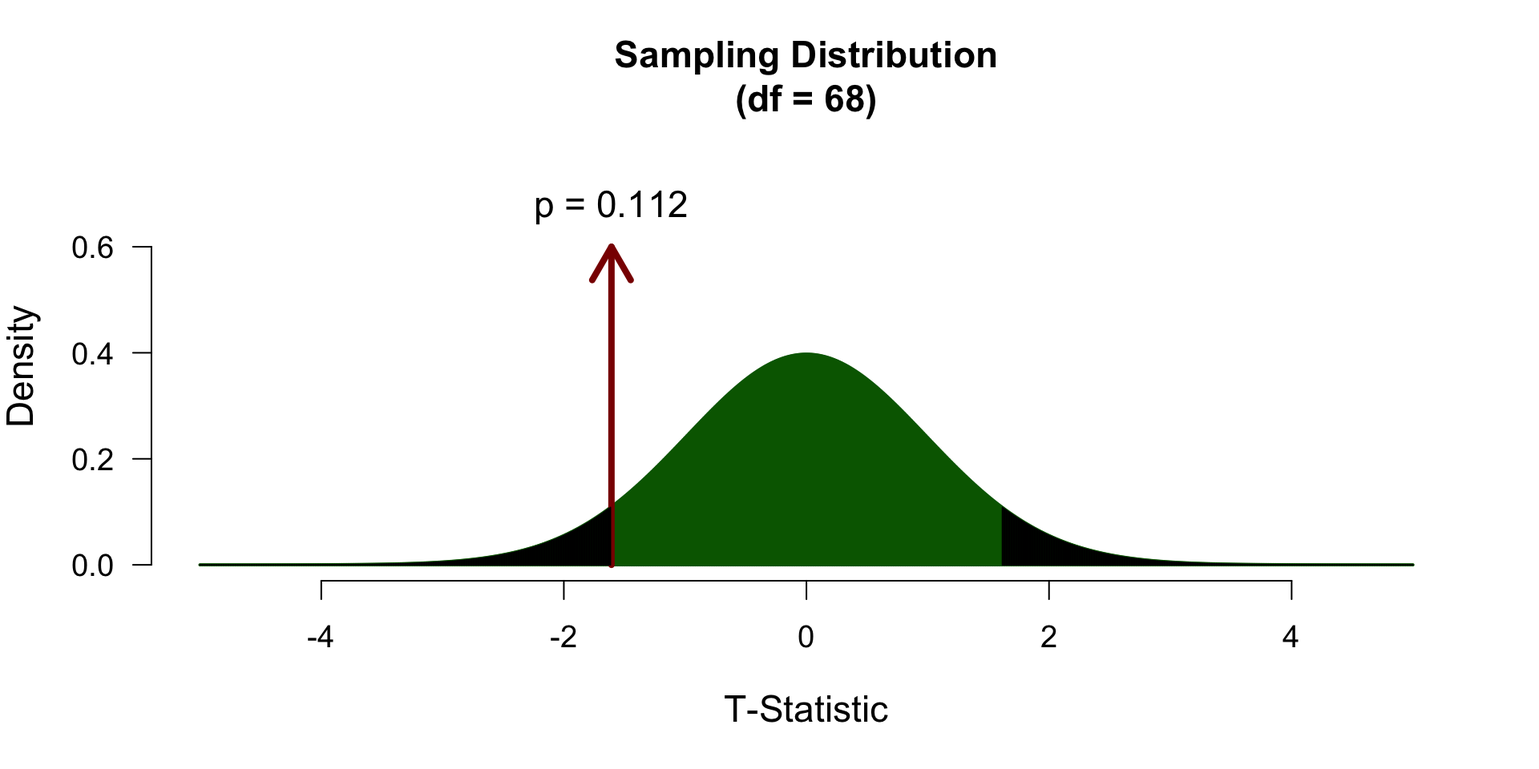
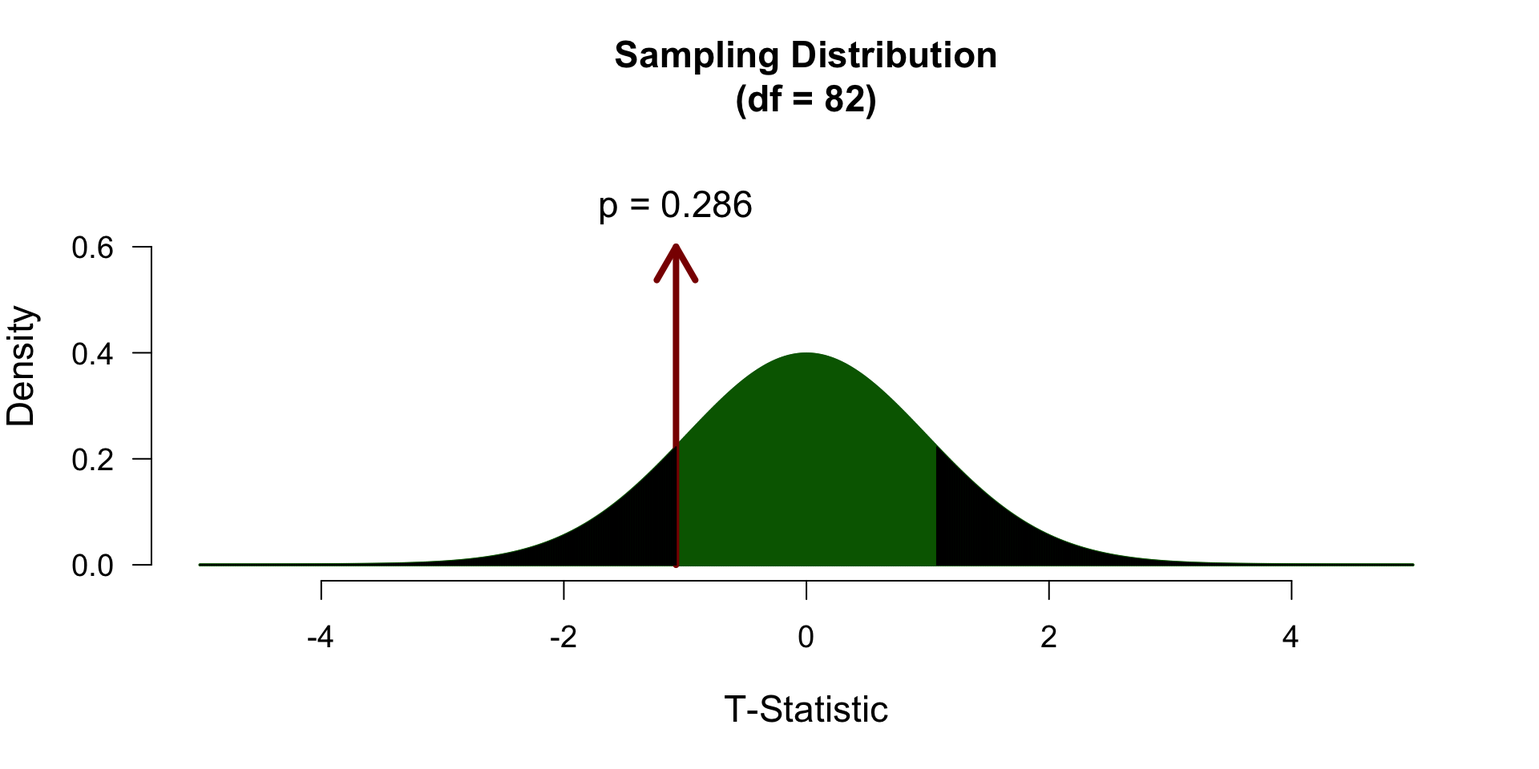
flipped distribution

diff --git a/SSR/2025/11. t_test/11. t_test.html b/SSR/2025/11. t_test/11. t_test.html
@@ -263,7 +263,7 @@ pre > code.sourceCode > span > a:first-child::before { text-decoration: underlin
 <span id="cb1-6"><a href="#cb1-6" aria-hidden="true" tabindex="-1"></a><span class="fu">cbind</span>(n, mean_x, sd_x)</span></code><button title="Copy to Clipboard" class="code-copy-button"><i class="bi"></i></button></pre></div>
 <div class="cell-output cell-output-stdout">
 <pre><code>      n   mean_x     sd_x
-[1,] 69 116.8841 16.10219</code></pre>
+[1,] 83 117.6024 20.31696</code></pre>
 </div>
 </div>
 <p><small> Does this mean differ significantly from <span class="math inline">\(\mathcal{H}_0:\)</span> <span class="math inline">\(\mu = 120\)</span>? </small></p>
@@ -277,12 +277,12 @@ pre > code.sourceCode > span > a:first-child::before { text-decoration: underlin
 </section>
 <section id="t-statistic" class="level2">
 <h2 class="anchored" data-anchor-id="t-statistic">T-statistic</h2>
-<p><span class="math display">\[T_{n-1} = \frac{\bar{x}-\mu}{SE_x} = \frac{\bar{x}-\mu}{s_x / \sqrt{n}} = \frac{116.88 - 120 }{16.1 / \sqrt{69}}\]</span></p>
+<p><span class="math display">\[T_{n-1} = \frac{\bar{x}-\mu}{SE_x} = \frac{\bar{x}-\mu}{s_x / \sqrt{n}} = \frac{117.6 - 120 }{20.32 / \sqrt{83}}\]</span></p>
 <p>So the t-statistic represents the deviation of the sample mean <span class="math inline">\(\bar{x}\)</span> from the population mean <span class="math inline">\(\mu\)</span>, considering the sample size.</p>
 <div class="cell">
 <div class="sourceCode cell-code" id="cb3"><pre class="sourceCode r code-with-copy"><code class="sourceCode r"><span id="cb3-1"><a href="#cb3-1" aria-hidden="true" tabindex="-1"></a>tStat <span class="ot">&lt;-</span> (mean_x <span class="sc">-</span> mu) <span class="sc">/</span> (sd_x <span class="sc">/</span> <span class="fu">sqrt</span>(n)); tStat</span></code><button title="Copy to Clipboard" class="code-copy-button"><i class="bi"></i></button></pre></div>
 <div class="cell-output cell-output-stdout">
-<pre><code>[1] -1.607419</code></pre>
+<pre><code>[1] -1.075116</code></pre>
 </div>
 </div>
 </section>
@@ -347,7 +347,7 @@ pre > code.sourceCode > span > a:first-child::before { text-decoration: underlin
 <span id="cb5-2"><a href="#cb5-2" aria-hidden="true" tabindex="-1"></a></span>
 <span id="cb5-3"><a href="#cb5-3" aria-hidden="true" tabindex="-1"></a>d</span></code><button title="Copy to Clipboard" class="code-copy-button"><i class="bi"></i></button></pre></div>
 <div class="cell-output cell-output-stdout">
-<pre><code>[1] -0.1935105</code></pre>
+<pre><code>[1] -0.1180093</code></pre>
 </div>
 </div>
 </section>
@@ -430,8 +430,8 @@ pre > code.sourceCode > span > a:first-child::before { text-decoration: underlin
 <div class="cell">
 <div class="cell-output-display">
 
-<div class="datatables html-widget html-fill-item" id="htmlwidget-0414e878fa13d598ac7b" style="width:100%;height:auto;"></div>
-<script type="application/json" data-for="htmlwidget-0414e878fa13d598ac7b">{"x":{"filter":"none","vertical":false,"data":[["1","2","3","4","5","6","7","8","9","10","11","12","13","14","15","16","17","18","19","20","21","22","23","24","25","26","27","28","29","30","31","32","33","34","35","36","37","38","39","40","41","42","43","44","45","46","47","48","49","50","51","52","53","54","55","56","57","58","59","60","61","62","63","64","65","66","67","68","69"],[110,120,110,108,115,162,110,108,108,130,110,103,120,130,104,119,108,108,135,145,110,130,130,120,125,120,115,125,105,117,120,142,130,115,152,100,115,100,110,100,100,143,108,130,120,113,131,122,120,105,113,137,100,110,105,141,120,130,145,120,120,118,105,120,90,125,125,110,80],[115,120,110,108,115,140,110,90,109,140,120,108,110,140,109,119,98,125,125,135,100,120,115,109,125,120,128,125,115,83,125,125,130,105,130,85,110,109,103,70,100,135,106,108,120,120,125,122,180,100,113,115,130,115,125,135,130,130,140,120,125,115,118,130,110,105,125,95,95]],"container":"<table class=\"display\">\n  <thead>\n    <tr>\n      <th> <\/th>\n      <th>ownIQ<\/th>\n      <th>nextIQ<\/th>\n    <\/tr>\n  <\/thead>\n<\/table>","options":{"searching":false,"scrollY":415,"paging":false,"info":false,"columnDefs":[{"className":"dt-right","targets":[1,2]},{"orderable":false,"targets":0},{"name":" ","targets":0},{"name":"ownIQ","targets":1},{"name":"nextIQ","targets":2}],"order":[],"autoWidth":false,"orderClasses":false}},"evals":[],"jsHooks":[]}</script>
+<div class="datatables html-widget html-fill-item" id="htmlwidget-62baa72121e0c912a0be" style="width:100%;height:auto;"></div>
+<script type="application/json" data-for="htmlwidget-62baa72121e0c912a0be">{"x":{"filter":"none","vertical":false,"data":[["1","2","3","4","5","6","7","8","9","10","11","12","13","14","15","16","17","18","19","20","21","22","23","24","25","26","27","28","29","30","31","32","33","34","35","36","37","38","39","40","41","42","43","44","45","46","47","48","49","50","51","52","53","54","55","56","57","58","59","60","61","62","63","64","65","66","67","68","69","70","71","72","73","74","75","76","77","78","79","80","81","82","83"],[120,108,122,115,130,100,110,110,116,100,115,100,115,122,115,112,120,180,125,110,110,128,115,110,130,125,120,120,72,100,101,120,110,110,110,100,110,100,130,128,120,110,110,100,120,120,105,105,110,130,200,120,115,130,130,180,120,98,105,200,115,130,135,115,120,120,110,131,200,110,140,125,126,115,110,120,120,100,103,125,136,128,112],[120,115,128,115,120,100,130,120,130,115,120,100,110,115,115,130,110,181,72,110,140,120,120,80,110,120,120,120,105,110,150,130,105,110,140,120,115,110,132,130,120,105,112,120,120,140,125,105,120,125,50,129,115,130,110,200,130,125,120,50,140,110,125,120,110,120,100,131,100,119,80,123,120,120,110,110,124,100,105,110,140,130,120]],"container":"<table class=\"display\">\n  <thead>\n    <tr>\n      <th> <\/th>\n      <th>ownIQ<\/th>\n      <th>nextIQ<\/th>\n    <\/tr>\n  <\/thead>\n<\/table>","options":{"searching":false,"scrollY":415,"paging":false,"info":false,"columnDefs":[{"className":"dt-right","targets":[1,2]},{"orderable":false,"targets":0},{"name":" ","targets":0},{"name":"ownIQ","targets":1},{"name":"nextIQ","targets":2}],"order":[],"autoWidth":false,"orderClasses":false}},"evals":[],"jsHooks":[]}</script>
 </div>
 </div>
 </section>
@@ -443,8 +443,8 @@ pre > code.sourceCode > span > a:first-child::before { text-decoration: underlin
 <div class="cell">
 <div class="cell-output-display">
 
-<div class="datatables html-widget html-fill-item" id="htmlwidget-38913332e435fed8f486" style="width:100%;height:auto;"></div>
-<script type="application/json" data-for="htmlwidget-38913332e435fed8f486">{"x":{"filter":"none","vertical":false,"data":[["1","2","3","4","5","6","7","8","9","10","11","12","13","14","15","16","17","18","19","20","21","22","23","24","25","26","27","28","29","30","31","32","33","34","35","36","37","38","39","40","41","42","43","44","45","46","47","48","49","50","51","52","53","54","55","56","57","58","59","60","61","62","63","64","65","66","67","68","69"],[110,120,110,108,115,162,110,108,108,130,110,103,120,130,104,119,108,108,135,145,110,130,130,120,125,120,115,125,105,117,120,142,130,115,152,100,115,100,110,100,100,143,108,130,120,113,131,122,120,105,113,137,100,110,105,141,120,130,145,120,120,118,105,120,90,125,125,110,80],[115,120,110,108,115,140,110,90,109,140,120,108,110,140,109,119,98,125,125,135,100,120,115,109,125,120,128,125,115,83,125,125,130,105,130,85,110,109,103,70,100,135,106,108,120,120,125,122,180,100,113,115,130,115,125,135,130,130,140,120,125,115,118,130,110,105,125,95,95],[5,0,0,0,0,-22,0,-18,1,10,10,5,-10,10,5,0,-10,17,-10,-10,-10,-10,-15,-11,0,0,13,0,10,-34,5,-17,0,-10,-22,-15,-5,9,-7,-30,0,-8,-2,-22,0,7,-6,0,60,-5,0,-22,30,5,20,-6,10,0,-5,0,5,-3,13,10,20,-20,0,-15,15]],"container":"<table class=\"display\">\n  <thead>\n    <tr>\n      <th> <\/th>\n      <th>ownIQ<\/th>\n      <th>nextIQ<\/th>\n      <th>diffScores<\/th>\n    <\/tr>\n  <\/thead>\n<\/table>","options":{"searching":false,"scrollY":315,"paging":false,"info":false,"columnDefs":[{"className":"dt-right","targets":[1,2,3]},{"orderable":false,"targets":0},{"name":" ","targets":0},{"name":"ownIQ","targets":1},{"name":"nextIQ","targets":2},{"name":"diffScores","targets":3}],"order":[],"autoWidth":false,"orderClasses":false}},"evals":[],"jsHooks":[]}</script>
+<div class="datatables html-widget html-fill-item" id="htmlwidget-0fdc4d0276e497538240" style="width:100%;height:auto;"></div>
+<script type="application/json" data-for="htmlwidget-0fdc4d0276e497538240">{"x":{"filter":"none","vertical":false,"data":[["1","2","3","4","5","6","7","8","9","10","11","12","13","14","15","16","17","18","19","20","21","22","23","24","25","26","27","28","29","30","31","32","33","34","35","36","37","38","39","40","41","42","43","44","45","46","47","48","49","50","51","52","53","54","55","56","57","58","59","60","61","62","63","64","65","66","67","68","69","70","71","72","73","74","75","76","77","78","79","80","81","82","83"],[120,108,122,115,130,100,110,110,116,100,115,100,115,122,115,112,120,180,125,110,110,128,115,110,130,125,120,120,72,100,101,120,110,110,110,100,110,100,130,128,120,110,110,100,120,120,105,105,110,130,200,120,115,130,130,180,120,98,105,200,115,130,135,115,120,120,110,131,200,110,140,125,126,115,110,120,120,100,103,125,136,128,112],[120,115,128,115,120,100,130,120,130,115,120,100,110,115,115,130,110,181,72,110,140,120,120,80,110,120,120,120,105,110,150,130,105,110,140,120,115,110,132,130,120,105,112,120,120,140,125,105,120,125,50,129,115,130,110,200,130,125,120,50,140,110,125,120,110,120,100,131,100,119,80,123,120,120,110,110,124,100,105,110,140,130,120],[0,7,6,0,-10,0,20,10,14,15,5,0,-5,-7,0,18,-10,1,-53,0,30,-8,5,-30,-20,-5,0,0,33,10,49,10,-5,0,30,20,5,10,2,2,0,-5,2,20,0,20,20,0,10,-5,-150,9,0,0,-20,20,10,27,15,-150,25,-20,-10,5,-10,0,-10,0,-100,9,-60,-2,-6,5,0,-10,4,0,2,-15,4,2,8]],"container":"<table class=\"display\">\n  <thead>\n    <tr>\n      <th> <\/th>\n      <th>ownIQ<\/th>\n      <th>nextIQ<\/th>\n      <th>diffScores<\/th>\n    <\/tr>\n  <\/thead>\n<\/table>","options":{"searching":false,"scrollY":315,"paging":false,"info":false,"columnDefs":[{"className":"dt-right","targets":[1,2,3]},{"orderable":false,"targets":0},{"name":" ","targets":0},{"name":"ownIQ","targets":1},{"name":"nextIQ","targets":2},{"name":"diffScores","targets":3}],"order":[],"autoWidth":false,"orderClasses":false}},"evals":[],"jsHooks":[]}</script>
 </div>
 </div>
 </section>
@@ -455,7 +455,7 @@ pre > code.sourceCode > span > a:first-child::before { text-decoration: underlin
 <span id="cb8-2"><a href="#cb8-2" aria-hidden="true" tabindex="-1"></a>diffMean        <span class="ot">&lt;-</span> <span class="fu">mean</span>(diffScores)</span>
 <span id="cb8-3"><a href="#cb8-3" aria-hidden="true" tabindex="-1"></a>diffMean</span></code><button title="Copy to Clipboard" class="code-copy-button"><i class="bi"></i></button></pre></div>
 <div class="cell-output cell-output-stdout">
-<pre><code>[1] -1.231884</code></pre>
+<pre><code>[1] -2.493976</code></pre>
 </div>
 </div>
 <p>And we also need n.</p>
@@ -463,7 +463,7 @@ pre > code.sourceCode > span > a:first-child::before { text-decoration: underlin
 <div class="sourceCode cell-code" id="cb10"><pre class="sourceCode r code-with-copy"><code class="sourceCode r"><span id="cb10-1"><a href="#cb10-1" aria-hidden="true" tabindex="-1"></a>n <span class="ot">&lt;-</span> <span class="fu">length</span>(diffScores)</span>
 <span id="cb10-2"><a href="#cb10-2" aria-hidden="true" tabindex="-1"></a>n</span></code><button title="Copy to Clipboard" class="code-copy-button"><i class="bi"></i></button></pre></div>
 <div class="cell-output cell-output-stdout">
-<pre><code>[1] 69</code></pre>
+<pre><code>[1] 83</code></pre>
 </div>
 </div>
 </section>
@@ -482,7 +482,7 @@ pre > code.sourceCode > span > a:first-child::before { text-decoration: underlin
 <span id="cb12-9"><a href="#cb12-9" aria-hidden="true" tabindex="-1"></a>tStat <span class="ot">&lt;-</span> ( diffMean <span class="sc">-</span> mu ) <span class="sc">/</span> diffSE</span>
 <span id="cb12-10"><a href="#cb12-10" aria-hidden="true" tabindex="-1"></a>tStat</span></code><button title="Copy to Clipboard" class="code-copy-button"><i class="bi"></i></button></pre></div>
 <div class="cell-output cell-output-stdout">
-<pre><code>[1] -0.7208622</code></pre>
+<pre><code>[1] -0.7502965</code></pre>
 </div>
 </div>
 </section>
@@ -506,7 +506,7 @@ pre > code.sourceCode > span > a:first-child::before { text-decoration: underlin
 <div class="sourceCode cell-code" id="cb14"><pre class="sourceCode r code-with-copy"><code class="sourceCode r"><span id="cb14-1"><a href="#cb14-1" aria-hidden="true" tabindex="-1"></a>d <span class="ot">&lt;-</span> tStat<span class="sc">/</span>(<span class="fu">sqrt</span>(n))</span>
 <span id="cb14-2"><a href="#cb14-2" aria-hidden="true" tabindex="-1"></a>d</span></code><button title="Copy to Clipboard" class="code-copy-button"><i class="bi"></i></button></pre></div>
 <div class="cell-output cell-output-stdout">
-<pre><code>[1] -0.08678161</code></pre>
+<pre><code>[1] -0.08235574</code></pre>
 </div>
 </div>
 </section>
@@ -587,8 +587,8 @@ H_A &amp;: t &lt; 0 \\
 <div class="cell">
 <div class="cell-output-display">
 
-<div class="datatables html-widget html-fill-item" id="htmlwidget-2a7ee1ec6822a283191b" style="width:100%;height:auto;"></div>
-<script type="application/json" data-for="htmlwidget-2a7ee1ec6822a283191b">{"x":{"filter":"none","vertical":false,"data":[["1","2","3","4","5","6","7","8","9","10","11","12","13","14","15","16","17","18","19","20","21","22","23","24","25","26","27","28","29","30","31","32","33","34","35","36","37","38","39","40","41","42","43","44","45","46","47","48","49","50","51","52","53","54","55","56","57","58","59","60","61","62","63","64","65","66","67","68","69","70","71","72"],["2024","2024","2024","2024","2024","2024","2024","2024","2024","2024","2024","2024","2024","2024","2024","2024","2024","2024","2024","2024","2024","2024","2024","2024","2024","2024","2024","2024","2024","2024","2024","2024","2024","2024","2024","2024","2024","2024","2024","2024","2024","2024","2024","2024","2024","2024","2024","2024","2024","2024","2024","2024","2024","2024","2024","2024","2024","2024","2024","2024","2024","2024","2024","2024","2024","2024","2024","2024","2024","2025","2025","2025"],[110,120,110,108,115,162,110,108,108,130,110,103,120,130,104,119,108,108,135,145,110,130,130,120,125,120,115,125,105,117,120,142,130,115,152,100,115,100,110,100,100,143,108,130,120,113,131,122,120,105,113,137,100,110,105,141,120,130,145,120,120,118,105,120,90,125,125,110,80,100,120,110]],"container":"<table class=\"display\">\n  <thead>\n    <tr>\n      <th> <\/th>\n      <th>year<\/th>\n      <th>IQ<\/th>\n    <\/tr>\n  <\/thead>\n<\/table>","options":{"searching":false,"scrollY":415,"paging":false,"info":false,"columnDefs":[{"className":"dt-right","targets":2},{"orderable":false,"targets":0},{"name":" ","targets":0},{"name":"year","targets":1},{"name":"IQ","targets":2}],"order":[],"autoWidth":false,"orderClasses":false}},"evals":[],"jsHooks":[]}</script>
+<div class="datatables html-widget html-fill-item" id="htmlwidget-79199f70094b28d9f3eb" style="width:100%;height:auto;"></div>
+<script type="application/json" data-for="htmlwidget-79199f70094b28d9f3eb">{"x":{"filter":"none","vertical":false,"data":[["1","2","3","4","5","6","7","8","9","10","11","12","13","14","15","16","17","18","19","20","21","22","23","24","25","26","27","28","29","30","31","32","33","34","35","36","37","38","39","40","41","42","43","44","45","46","47","48","49","50","51","52","53","54","55","56","57","58","59","60","61","62","63","64","65","66","67","68","69","70","71","72"],["2024","2024","2024","2024","2024","2024","2024","2024","2024","2024","2024","2024","2024","2024","2024","2024","2024","2024","2024","2024","2024","2024","2024","2024","2024","2024","2024","2024","2024","2024","2024","2024","2024","2024","2024","2024","2024","2024","2024","2024","2024","2024","2024","2024","2024","2024","2024","2024","2024","2024","2024","2024","2024","2024","2024","2024","2024","2024","2024","2024","2024","2024","2024","2024","2024","2024","2024","2024","2024","2025","2025","2025"],[110,120,110,108,115,162,110,108,108,130,110,103,120,130,104,119,108,108,135,145,110,130,130,120,125,120,115,125,105,117,120,142,130,115,152,100,115,100,110,100,100,143,108,130,120,113,131,122,120,105,113,137,100,110,105,141,120,130,145,120,120,118,105,120,90,125,125,110,80,100,120,110]],"container":"<table class=\"display\">\n  <thead>\n    <tr>\n      <th> <\/th>\n      <th>year<\/th>\n      <th>IQ<\/th>\n    <\/tr>\n  <\/thead>\n<\/table>","options":{"searching":false,"scrollY":415,"paging":false,"info":false,"columnDefs":[{"className":"dt-right","targets":2},{"orderable":false,"targets":0},{"name":" ","targets":0},{"name":"year","targets":1},{"name":"IQ","targets":2}],"order":[],"autoWidth":false,"orderClasses":false}},"evals":[],"jsHooks":[]}</script>
 </div>
 </div>
 </section>

diff --git a/SSR/2025/11. t_test/11. t_test.slide.html b/SSR/2025/11. t_test/11. t_test.slide.html
@@ -489,7 +489,7 @@ Johnny van Doorn
 <span id="cb1-6"><a href="#cb1-6"></a><span class="fu">cbind</span>(n, mean_x, sd_x)</span></code><button title="Copy to Clipboard" class="code-copy-button"><i class="bi"></i></button></pre></div>
 <div class="cell-output cell-output-stdout">
 <pre><code>      n   mean_x     sd_x
-[1,] 69 116.8841 16.10219</code></pre>
+[1,] 83 117.6024 20.31696</code></pre>
 </div>
 </div>
 <p><small> Does this mean differ significantly from <span class="math inline">\(\mathcal{H}_0:\)</span> <span class="math inline">\(\mu = 120\)</span>? </small></p>
@@ -503,12 +503,12 @@ Johnny van Doorn
 </section>
 <section id="t-statistic" class="slide level2">
 <h2>T-statistic</h2>
-<p><span class="math display">\[T_{n-1} = \frac{\bar{x}-\mu}{SE_x} = \frac{\bar{x}-\mu}{s_x / \sqrt{n}} = \frac{116.88 - 120 }{16.1 / \sqrt{69}}\]</span></p>
+<p><span class="math display">\[T_{n-1} = \frac{\bar{x}-\mu}{SE_x} = \frac{\bar{x}-\mu}{s_x / \sqrt{n}} = \frac{117.6 - 120 }{20.32 / \sqrt{83}}\]</span></p>
 <p>So the t-statistic represents the deviation of the sample mean <span class="math inline">\(\bar{x}\)</span> from the population mean <span class="math inline">\(\mu\)</span>, considering the sample size.</p>
 <div class="cell">
 <div class="sourceCode cell-code" id="cb3"><pre class="sourceCode numberSource r number-lines code-with-copy"><code class="sourceCode r"><span id="cb3-1"><a href="#cb3-1"></a>tStat <span class="ot">&lt;-</span> (mean_x <span class="sc">-</span> mu) <span class="sc">/</span> (sd_x <span class="sc">/</span> <span class="fu">sqrt</span>(n)); tStat</span></code><button title="Copy to Clipboard" class="code-copy-button"><i class="bi"></i></button></pre></div>
 <div class="cell-output cell-output-stdout">
-<pre><code>[1] -1.607419</code></pre>
+<pre><code>[1] -1.075116</code></pre>
 </div>
 </div>
 </section>
@@ -549,7 +549,7 @@ Johnny van Doorn
 <span id="cb5-2"><a href="#cb5-2"></a></span>
 <span id="cb5-3"><a href="#cb5-3"></a>d</span></code><button title="Copy to Clipboard" class="code-copy-button"><i class="bi"></i></button></pre></div>
 <div class="cell-output cell-output-stdout">
-<pre><code>[1] -0.1935105</code></pre>
+<pre><code>[1] -0.1180093</code></pre>
 </div>
 </div>
 </section>
@@ -633,8 +633,8 @@ Johnny van Doorn
 <div class="cell">
 <div class="cell-output-display">
 
-<div class="datatables html-widget html-fill-item" id="htmlwidget-606bfd3efa100e272734" style="width:100%;height:auto;"></div>
-<script type="application/json" data-for="htmlwidget-606bfd3efa100e272734">{"x":{"filter":"none","vertical":false,"data":[["1","2","3","4","5","6","7","8","9","10","11","12","13","14","15","16","17","18","19","20","21","22","23","24","25","26","27","28","29","30","31","32","33","34","35","36","37","38","39","40","41","42","43","44","45","46","47","48","49","50","51","52","53","54","55","56","57","58","59","60","61","62","63","64","65","66","67","68","69"],[110,120,110,108,115,162,110,108,108,130,110,103,120,130,104,119,108,108,135,145,110,130,130,120,125,120,115,125,105,117,120,142,130,115,152,100,115,100,110,100,100,143,108,130,120,113,131,122,120,105,113,137,100,110,105,141,120,130,145,120,120,118,105,120,90,125,125,110,80],[115,120,110,108,115,140,110,90,109,140,120,108,110,140,109,119,98,125,125,135,100,120,115,109,125,120,128,125,115,83,125,125,130,105,130,85,110,109,103,70,100,135,106,108,120,120,125,122,180,100,113,115,130,115,125,135,130,130,140,120,125,115,118,130,110,105,125,95,95]],"container":"<table class=\"display\">\n  <thead>\n    <tr>\n      <th> <\/th>\n      <th>ownIQ<\/th>\n      <th>nextIQ<\/th>\n    <\/tr>\n  <\/thead>\n<\/table>","options":{"searching":false,"scrollY":415,"paging":false,"info":false,"columnDefs":[{"className":"dt-right","targets":[1,2]},{"orderable":false,"targets":0},{"name":" ","targets":0},{"name":"ownIQ","targets":1},{"name":"nextIQ","targets":2}],"order":[],"autoWidth":false,"orderClasses":false}},"evals":[],"jsHooks":[]}</script>
+<div class="datatables html-widget html-fill-item" id="htmlwidget-84974fbfda798952516b" style="width:100%;height:auto;"></div>
+<script type="application/json" data-for="htmlwidget-84974fbfda798952516b">{"x":{"filter":"none","vertical":false,"data":[["1","2","3","4","5","6","7","8","9","10","11","12","13","14","15","16","17","18","19","20","21","22","23","24","25","26","27","28","29","30","31","32","33","34","35","36","37","38","39","40","41","42","43","44","45","46","47","48","49","50","51","52","53","54","55","56","57","58","59","60","61","62","63","64","65","66","67","68","69","70","71","72","73","74","75","76","77","78","79","80","81","82","83"],[120,108,122,115,130,100,110,110,116,100,115,100,115,122,115,112,120,180,125,110,110,128,115,110,130,125,120,120,72,100,101,120,110,110,110,100,110,100,130,128,120,110,110,100,120,120,105,105,110,130,200,120,115,130,130,180,120,98,105,200,115,130,135,115,120,120,110,131,200,110,140,125,126,115,110,120,120,100,103,125,136,128,112],[120,115,128,115,120,100,130,120,130,115,120,100,110,115,115,130,110,181,72,110,140,120,120,80,110,120,120,120,105,110,150,130,105,110,140,120,115,110,132,130,120,105,112,120,120,140,125,105,120,125,50,129,115,130,110,200,130,125,120,50,140,110,125,120,110,120,100,131,100,119,80,123,120,120,110,110,124,100,105,110,140,130,120]],"container":"<table class=\"display\">\n  <thead>\n    <tr>\n      <th> <\/th>\n      <th>ownIQ<\/th>\n      <th>nextIQ<\/th>\n    <\/tr>\n  <\/thead>\n<\/table>","options":{"searching":false,"scrollY":415,"paging":false,"info":false,"columnDefs":[{"className":"dt-right","targets":[1,2]},{"orderable":false,"targets":0},{"name":" ","targets":0},{"name":"ownIQ","targets":1},{"name":"nextIQ","targets":2}],"order":[],"autoWidth":false,"orderClasses":false}},"evals":[],"jsHooks":[]}</script>
 </div>
 </div>
 </section>
@@ -646,8 +646,8 @@ Johnny van Doorn
 <div class="cell">
 <div class="cell-output-display">
 
-<div class="datatables html-widget html-fill-item" id="htmlwidget-3b90720a21a7d95733d8" style="width:100%;height:auto;"></div>
-<script type="application/json" data-for="htmlwidget-3b90720a21a7d95733d8">{"x":{"filter":"none","vertical":false,"data":[["1","2","3","4","5","6","7","8","9","10","11","12","13","14","15","16","17","18","19","20","21","22","23","24","25","26","27","28","29","30","31","32","33","34","35","36","37","38","39","40","41","42","43","44","45","46","47","48","49","50","51","52","53","54","55","56","57","58","59","60","61","62","63","64","65","66","67","68","69"],[110,120,110,108,115,162,110,108,108,130,110,103,120,130,104,119,108,108,135,145,110,130,130,120,125,120,115,125,105,117,120,142,130,115,152,100,115,100,110,100,100,143,108,130,120,113,131,122,120,105,113,137,100,110,105,141,120,130,145,120,120,118,105,120,90,125,125,110,80],[115,120,110,108,115,140,110,90,109,140,120,108,110,140,109,119,98,125,125,135,100,120,115,109,125,120,128,125,115,83,125,125,130,105,130,85,110,109,103,70,100,135,106,108,120,120,125,122,180,100,113,115,130,115,125,135,130,130,140,120,125,115,118,130,110,105,125,95,95],[5,0,0,0,0,-22,0,-18,1,10,10,5,-10,10,5,0,-10,17,-10,-10,-10,-10,-15,-11,0,0,13,0,10,-34,5,-17,0,-10,-22,-15,-5,9,-7,-30,0,-8,-2,-22,0,7,-6,0,60,-5,0,-22,30,5,20,-6,10,0,-5,0,5,-3,13,10,20,-20,0,-15,15]],"container":"<table class=\"display\">\n  <thead>\n    <tr>\n      <th> <\/th>\n      <th>ownIQ<\/th>\n      <th>nextIQ<\/th>\n      <th>diffScores<\/th>\n    <\/tr>\n  <\/thead>\n<\/table>","options":{"searching":false,"scrollY":315,"paging":false,"info":false,"columnDefs":[{"className":"dt-right","targets":[1,2,3]},{"orderable":false,"targets":0},{"name":" ","targets":0},{"name":"ownIQ","targets":1},{"name":"nextIQ","targets":2},{"name":"diffScores","targets":3}],"order":[],"autoWidth":false,"orderClasses":false}},"evals":[],"jsHooks":[]}</script>
+<div class="datatables html-widget html-fill-item" id="htmlwidget-675e4ee6b5d79b495d33" style="width:100%;height:auto;"></div>
+<script type="application/json" data-for="htmlwidget-675e4ee6b5d79b495d33">{"x":{"filter":"none","vertical":false,"data":[["1","2","3","4","5","6","7","8","9","10","11","12","13","14","15","16","17","18","19","20","21","22","23","24","25","26","27","28","29","30","31","32","33","34","35","36","37","38","39","40","41","42","43","44","45","46","47","48","49","50","51","52","53","54","55","56","57","58","59","60","61","62","63","64","65","66","67","68","69","70","71","72","73","74","75","76","77","78","79","80","81","82","83"],[120,108,122,115,130,100,110,110,116,100,115,100,115,122,115,112,120,180,125,110,110,128,115,110,130,125,120,120,72,100,101,120,110,110,110,100,110,100,130,128,120,110,110,100,120,120,105,105,110,130,200,120,115,130,130,180,120,98,105,200,115,130,135,115,120,120,110,131,200,110,140,125,126,115,110,120,120,100,103,125,136,128,112],[120,115,128,115,120,100,130,120,130,115,120,100,110,115,115,130,110,181,72,110,140,120,120,80,110,120,120,120,105,110,150,130,105,110,140,120,115,110,132,130,120,105,112,120,120,140,125,105,120,125,50,129,115,130,110,200,130,125,120,50,140,110,125,120,110,120,100,131,100,119,80,123,120,120,110,110,124,100,105,110,140,130,120],[0,7,6,0,-10,0,20,10,14,15,5,0,-5,-7,0,18,-10,1,-53,0,30,-8,5,-30,-20,-5,0,0,33,10,49,10,-5,0,30,20,5,10,2,2,0,-5,2,20,0,20,20,0,10,-5,-150,9,0,0,-20,20,10,27,15,-150,25,-20,-10,5,-10,0,-10,0,-100,9,-60,-2,-6,5,0,-10,4,0,2,-15,4,2,8]],"container":"<table class=\"display\">\n  <thead>\n    <tr>\n      <th> <\/th>\n      <th>ownIQ<\/th>\n      <th>nextIQ<\/th>\n      <th>diffScores<\/th>\n    <\/tr>\n  <\/thead>\n<\/table>","options":{"searching":false,"scrollY":315,"paging":false,"info":false,"columnDefs":[{"className":"dt-right","targets":[1,2,3]},{"orderable":false,"targets":0},{"name":" ","targets":0},{"name":"ownIQ","targets":1},{"name":"nextIQ","targets":2},{"name":"diffScores","targets":3}],"order":[],"autoWidth":false,"orderClasses":false}},"evals":[],"jsHooks":[]}</script>
 </div>
 </div>
 </section>
@@ -658,7 +658,7 @@ Johnny van Doorn
 <span id="cb8-2"><a href="#cb8-2"></a>diffMean        <span class="ot">&lt;-</span> <span class="fu">mean</span>(diffScores)</span>
 <span id="cb8-3"><a href="#cb8-3"></a>diffMean</span></code><button title="Copy to Clipboard" class="code-copy-button"><i class="bi"></i></button></pre></div>
 <div class="cell-output cell-output-stdout">
-<pre><code>[1] -1.231884</code></pre>
+<pre><code>[1] -2.493976</code></pre>
 </div>
 </div>
 <p>And we also need n.</p>
@@ -666,7 +666,7 @@ Johnny van Doorn
 <div class="sourceCode cell-code" id="cb10"><pre class="sourceCode numberSource r number-lines code-with-copy"><code class="sourceCode r"><span id="cb10-1"><a href="#cb10-1"></a>n <span class="ot">&lt;-</span> <span class="fu">length</span>(diffScores)</span>
 <span id="cb10-2"><a href="#cb10-2"></a>n</span></code><button title="Copy to Clipboard" class="code-copy-button"><i class="bi"></i></button></pre></div>
 <div class="cell-output cell-output-stdout">
-<pre><code>[1] 69</code></pre>
+<pre><code>[1] 83</code></pre>
 </div>
 </div>
 </section>
@@ -685,7 +685,7 @@ Johnny van Doorn
 <span id="cb12-9"><a href="#cb12-9"></a>tStat <span class="ot">&lt;-</span> ( diffMean <span class="sc">-</span> mu ) <span class="sc">/</span> diffSE</span>
 <span id="cb12-10"><a href="#cb12-10"></a>tStat</span></code><button title="Copy to Clipboard" class="code-copy-button"><i class="bi"></i></button></pre></div>
 <div class="cell-output cell-output-stdout">
-<pre><code>[1] -0.7208622</code></pre>
+<pre><code>[1] -0.7502965</code></pre>
 </div>
 </div>
 </section>
@@ -701,7 +701,7 @@ Johnny van Doorn
 <div class="sourceCode cell-code" id="cb14"><pre class="sourceCode numberSource r number-lines code-with-copy"><code class="sourceCode r"><span id="cb14-1"><a href="#cb14-1"></a>d <span class="ot">&lt;-</span> tStat<span class="sc">/</span>(<span class="fu">sqrt</span>(n))</span>
 <span id="cb14-2"><a href="#cb14-2"></a>d</span></code><button title="Copy to Clipboard" class="code-copy-button"><i class="bi"></i></button></pre></div>
 <div class="cell-output cell-output-stdout">
-<pre><code>[1] -0.08678161</code></pre>
+<pre><code>[1] -0.08235574</code></pre>
 </div>
 </div>
 </section></section>
@@ -783,8 +783,8 @@ H_A &amp;: t &lt; 0 \\
 <div class="cell">
 <div class="cell-output-display">
 
-<div class="datatables html-widget html-fill-item" id="htmlwidget-e33a621fcb6835a6afeb" style="width:100%;height:auto;"></div>
-<script type="application/json" data-for="htmlwidget-e33a621fcb6835a6afeb">{"x":{"filter":"none","vertical":false,"data":[["1","2","3","4","5","6","7","8","9","10","11","12","13","14","15","16","17","18","19","20","21","22","23","24","25","26","27","28","29","30","31","32","33","34","35","36","37","38","39","40","41","42","43","44","45","46","47","48","49","50","51","52","53","54","55","56","57","58","59","60","61","62","63","64","65","66","67","68","69","70","71","72"],["2024","2024","2024","2024","2024","2024","2024","2024","2024","2024","2024","2024","2024","2024","2024","2024","2024","2024","2024","2024","2024","2024","2024","2024","2024","2024","2024","2024","2024","2024","2024","2024","2024","2024","2024","2024","2024","2024","2024","2024","2024","2024","2024","2024","2024","2024","2024","2024","2024","2024","2024","2024","2024","2024","2024","2024","2024","2024","2024","2024","2024","2024","2024","2024","2024","2024","2024","2024","2024","2025","2025","2025"],[110,120,110,108,115,162,110,108,108,130,110,103,120,130,104,119,108,108,135,145,110,130,130,120,125,120,115,125,105,117,120,142,130,115,152,100,115,100,110,100,100,143,108,130,120,113,131,122,120,105,113,137,100,110,105,141,120,130,145,120,120,118,105,120,90,125,125,110,80,100,120,110]],"container":"<table class=\"display\">\n  <thead>\n    <tr>\n      <th> <\/th>\n      <th>year<\/th>\n      <th>IQ<\/th>\n    <\/tr>\n  <\/thead>\n<\/table>","options":{"searching":false,"scrollY":415,"paging":false,"info":false,"columnDefs":[{"className":"dt-right","targets":2},{"orderable":false,"targets":0},{"name":" ","targets":0},{"name":"year","targets":1},{"name":"IQ","targets":2}],"order":[],"autoWidth":false,"orderClasses":false}},"evals":[],"jsHooks":[]}</script>
+<div class="datatables html-widget html-fill-item" id="htmlwidget-8c19b050aec4abfb5209" style="width:100%;height:auto;"></div>
+<script type="application/json" data-for="htmlwidget-8c19b050aec4abfb5209">{"x":{"filter":"none","vertical":false,"data":[["1","2","3","4","5","6","7","8","9","10","11","12","13","14","15","16","17","18","19","20","21","22","23","24","25","26","27","28","29","30","31","32","33","34","35","36","37","38","39","40","41","42","43","44","45","46","47","48","49","50","51","52","53","54","55","56","57","58","59","60","61","62","63","64","65","66","67","68","69","70","71","72"],["2024","2024","2024","2024","2024","2024","2024","2024","2024","2024","2024","2024","2024","2024","2024","2024","2024","2024","2024","2024","2024","2024","2024","2024","2024","2024","2024","2024","2024","2024","2024","2024","2024","2024","2024","2024","2024","2024","2024","2024","2024","2024","2024","2024","2024","2024","2024","2024","2024","2024","2024","2024","2024","2024","2024","2024","2024","2024","2024","2024","2024","2024","2024","2024","2024","2024","2024","2024","2024","2025","2025","2025"],[110,120,110,108,115,162,110,108,108,130,110,103,120,130,104,119,108,108,135,145,110,130,130,120,125,120,115,125,105,117,120,142,130,115,152,100,115,100,110,100,100,143,108,130,120,113,131,122,120,105,113,137,100,110,105,141,120,130,145,120,120,118,105,120,90,125,125,110,80,100,120,110]],"container":"<table class=\"display\">\n  <thead>\n    <tr>\n      <th> <\/th>\n      <th>year<\/th>\n      <th>IQ<\/th>\n    <\/tr>\n  <\/thead>\n<\/table>","options":{"searching":false,"scrollY":415,"paging":false,"info":false,"columnDefs":[{"className":"dt-right","targets":2},{"orderable":false,"targets":0},{"name":" ","targets":0},{"name":"year","targets":1},{"name":"IQ","targets":2}],"order":[],"autoWidth":false,"orderClasses":false}},"evals":[],"jsHooks":[]}</script>
 </div>
 </div>
 </section>
